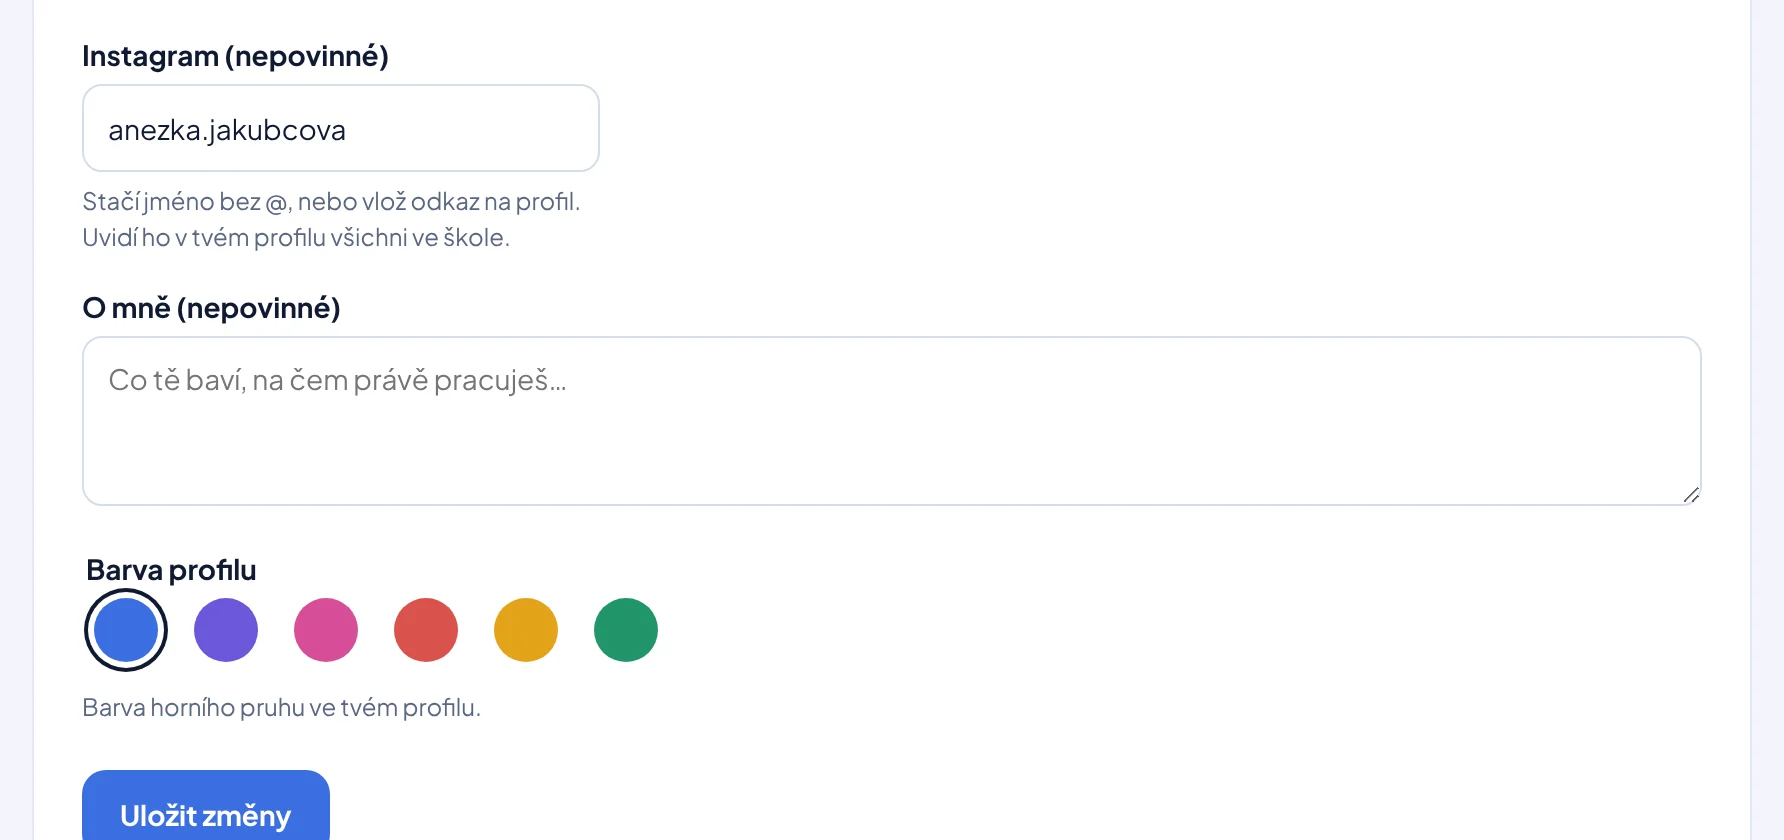
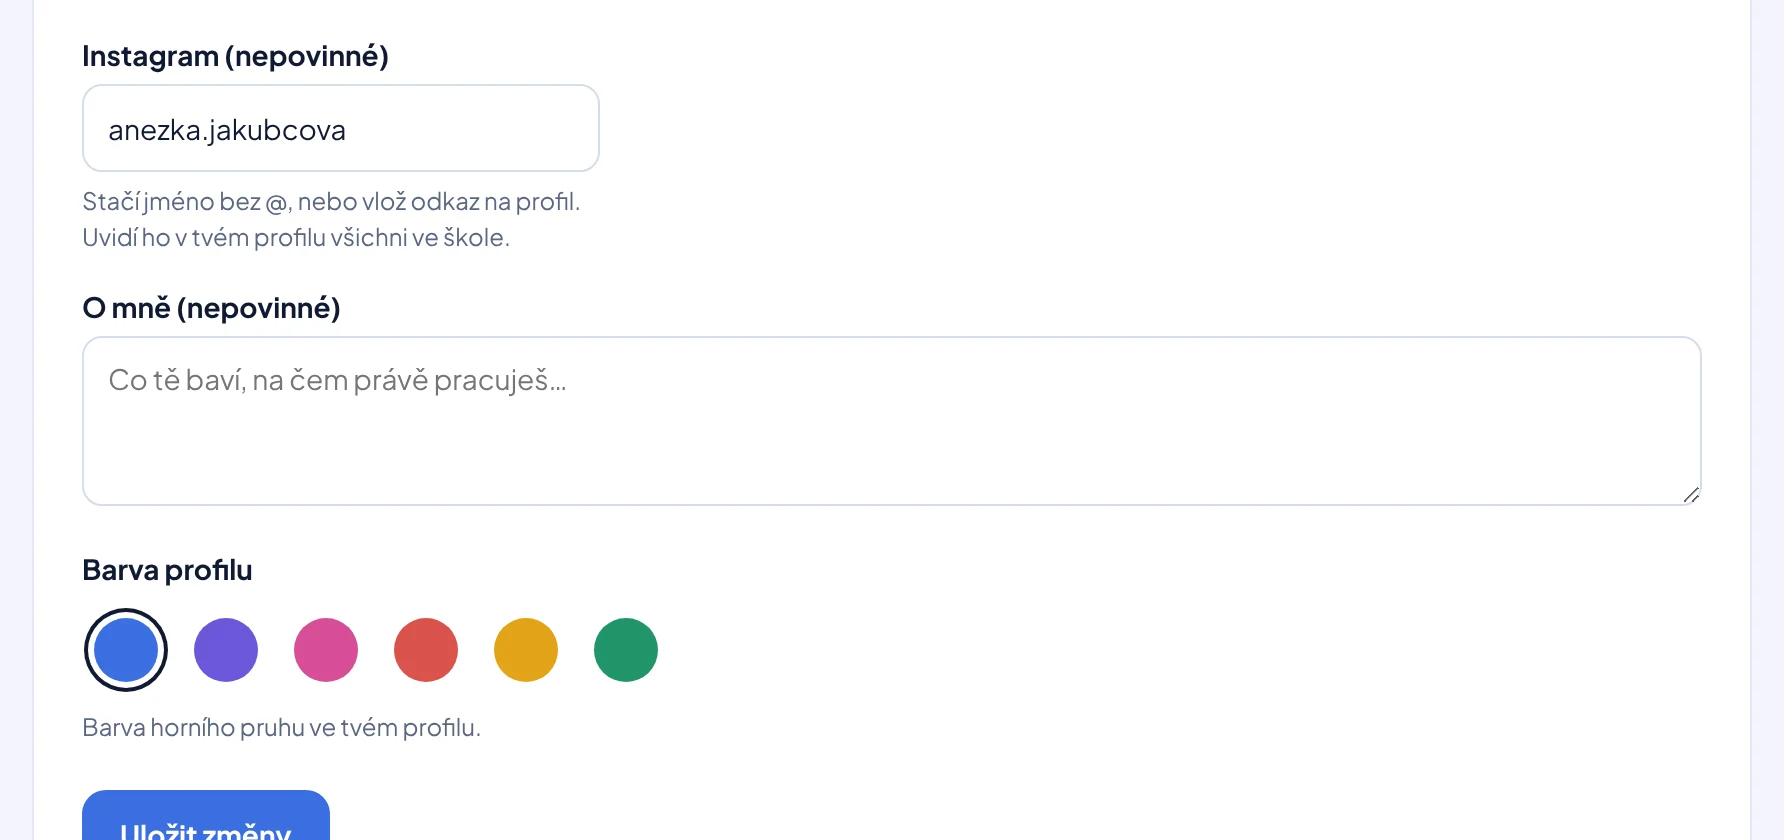
Nastavení: mezera mezi nadpisem Barva profilu a kolečky; přefocený návod Profil
Claude-Session: https://claude.ai/code/session_01S4k3G4RvgMHKPCyowCDzNN

Changed region(s): [[0.0308, 0.65, 0.37, 1.0]]

diff --git a/src/components/manage/manage.module.css b/src/components/manage/manage.module.css
@@ -415,6 +415,11 @@ label.row:hover,
   display: grid;
   gap: 8px;
 }
+/* <legend> se do mřížky fieldsetu nepočítá (gap na něj nepůsobí) — mezeru dává sám */
+.colorPick > legend {
+  padding: 0;
+  margin-bottom: 10px;
+}
 .swatches {
   display: flex;
   flex-wrap: wrap;
